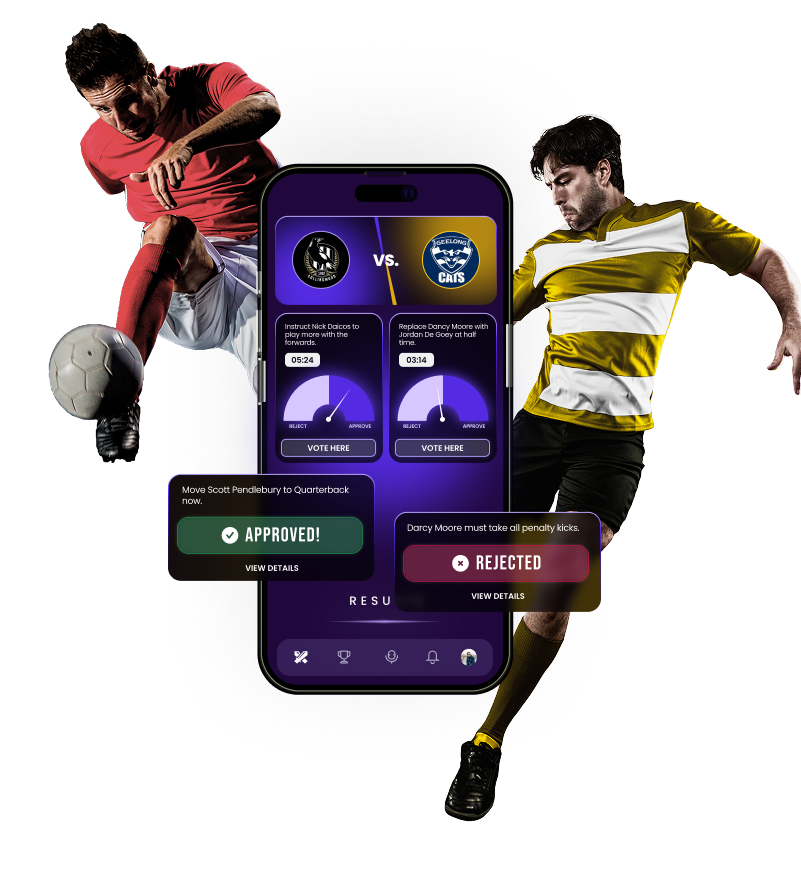
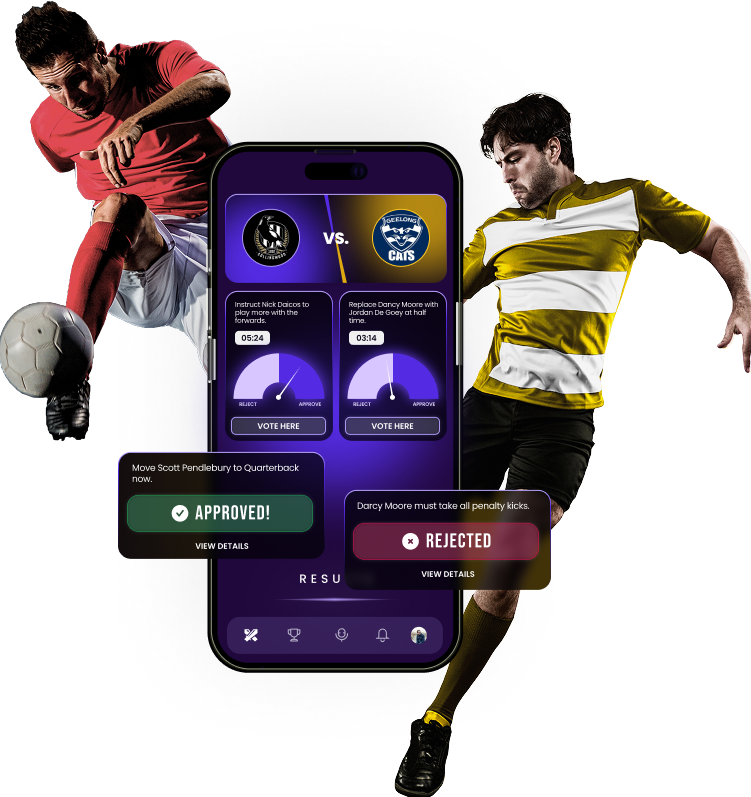
refine hero section for home

diff --git a/index.html b/index.html
@@ -63,15 +63,17 @@
 
                 <div class="hero-text">
                     <h1 class="title">REDEFINING FAN ENGAGEMENT</h1>
-                    <p style="font-size: 26px;">
+                    <p style="font-size: 20px;">
                         Fans Shape the Future. Clubs Evolve. Sports Transform.
                     </p>
-                    <p style="font-family: Poppins;">
-                        A revolutionary platform to involve fans in club affairs from on-field tactics to boardroom
-                        strategy.
-                    </p>
+                    <div class="" style="max-width:400px;"> 
+                        <p style="font-family: Poppins; font-size: 12px;">
+                            A revolutionary platform to involve fans in club affairs from on-field tactics to boardroom
+                            strategy.
+                        </p>
+                    </div>
 
-                    <p style="font-family: Poppins; font-weight: 600;">Be more than a spectator. Join the movement.</p>
+                    <p style="font-family: Poppins; font-size: 12px; font-weight: 600;">Be more than a spectator. Join the movement.</p>
                     <button class="get-started-btn btn-primary">Get Started</button>
                 </div>
                 <div class="hero-image">

diff --git a/Css/index/index.css b/Css/index/index.css
@@ -7,6 +7,11 @@
     z-index: 1;
 }
 
+.header .container {
+    /* padding-bottom: 0px !important; */
+    padding-bottom: 0px;
+}
+
 .header .blur-wrapper {
     /* background-color: rgb(136, 110, 110); */
     height: 100%;
@@ -87,9 +92,11 @@
 .hero-section {
     margin-top: 80px !important;
     display: flex;
-    align-items: center;
-    gap: 50px;
+    /* align-items: center; */
+    /* gap: 50px; */
 }
+
+
 
 .hero-text {
     gap: 20px;
@@ -99,12 +106,28 @@
 
 .hero-text,
 .hero-image {
-    flex: 1;
+    /* flex: 1; */
+}
+
+.hero-image {
+    transform: translateX(50px);
+}
+
+.hero-text {
+    max-width: 480px;
+    padding-top: 30px;
+    /* background-color: red; */
+}
+
+.hero-text .title {
+    font-size: 99px;
 }
 
 .hero-image img {
     width: 100%;
     height: auto;
+    margin-bottom: -50px;
+
 }
 
 .header .blur-topleft {
